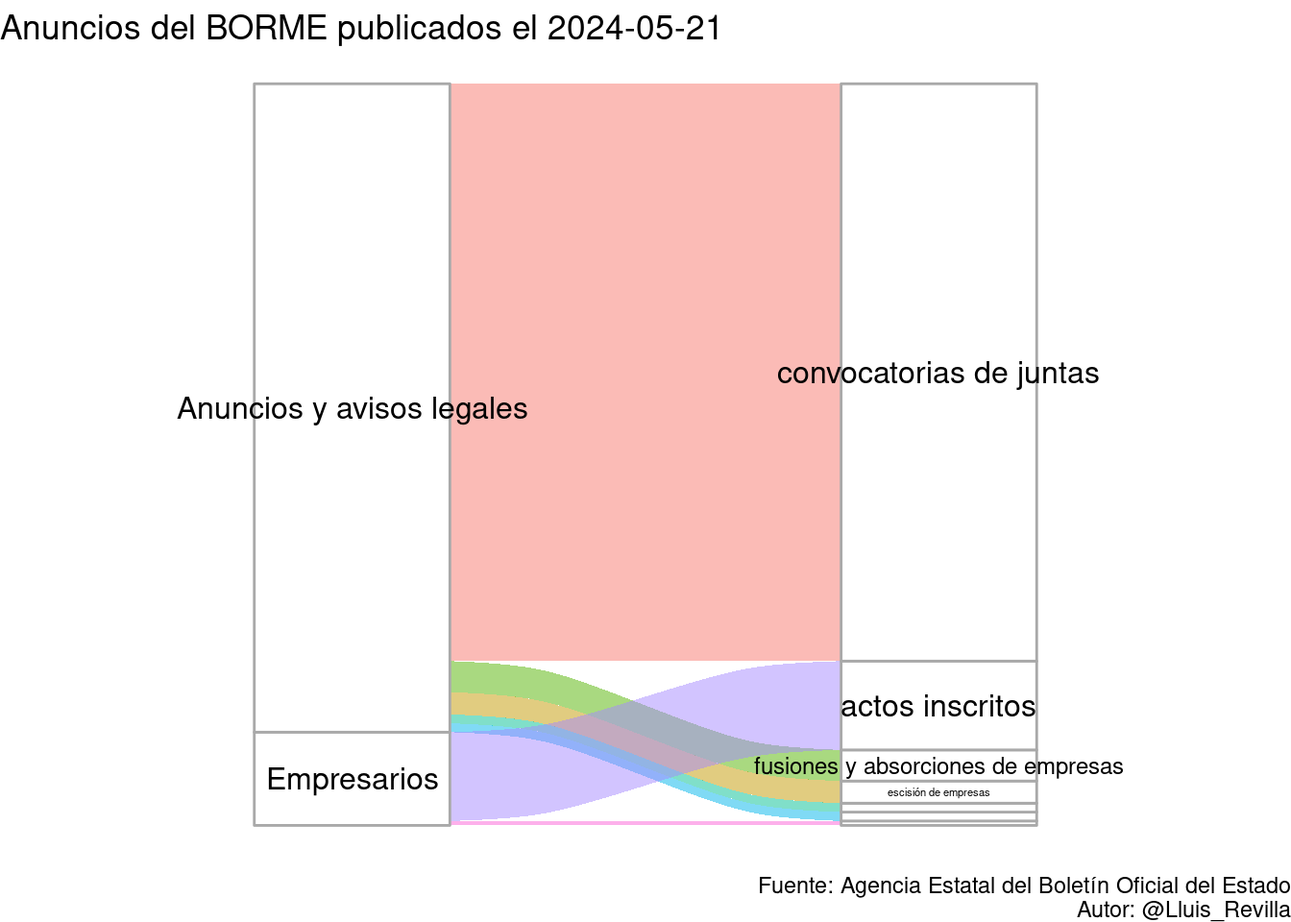
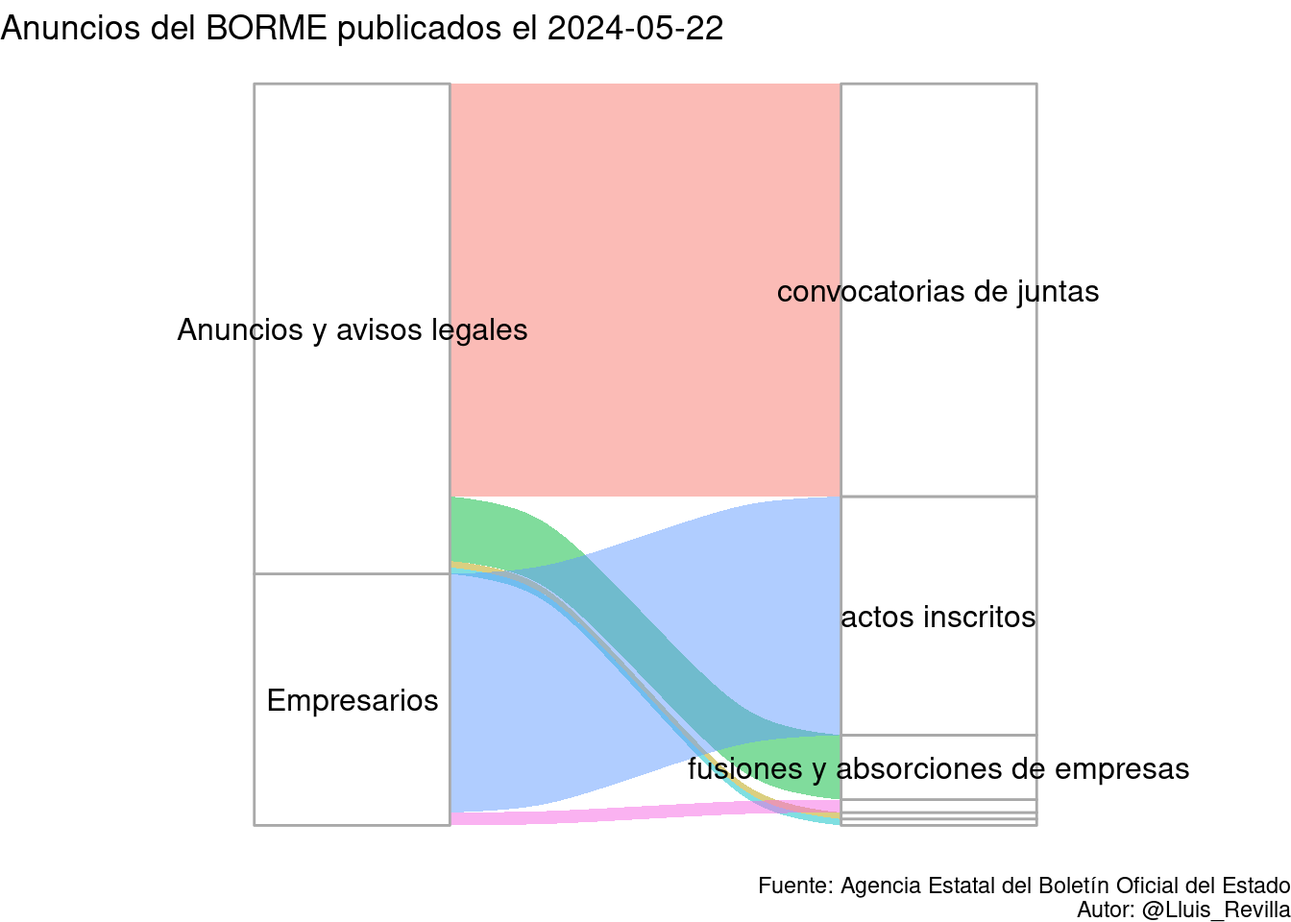
Update BORME

diff --git a/docs/last_BORME.html b/docs/last_BORME.html
@@ -379,14 +379,14 @@ $(document).ready(function () {
 
 <div id="resumen-gráfico" class="section level1">
 <h1>Resumen gráfico</h1>
-<p>Esta página web contiene el último sumario del BORME publicado el 2024-05-21 con 167 publicaciones.</p>
+<p>Esta página web contiene el último sumario del BORME publicado el 2024-05-22 con 115 publicaciones.</p>
 <p><img src="last_BORME_files/figure-html/graphics-1.png" width="672" /></p>
 </div>
 <div id="tabla-de-publicaciones" class="section level1">
 <h1>Tabla de publicaciones</h1>
 <p>Aquí está la tabla completa con enlaces a las publicaciones:</p>
-<div class="datatables html-widget html-fill-item-overflow-hidden html-fill-item" id="htmlwidget-a701b0b0e2aa3065d096" style="width:100%;height:auto;"></div>
-<script type="application/json" data-for="htmlwidget-a701b0b0e2aa3065d096">{"x":{"filter":"top","vertical":false,"filterHTML":"<tr>\n  <td><\/td>\n  <td data-type=\"character\" style=\"vertical-align: top;\">\n    <div class=\"form-group has-feedback\" style=\"margin-bottom: auto;\">\n      <input type=\"search\" placeholder=\"All\" class=\"form-control\" style=\"width: 100%;\"/>\n      <span class=\"glyphicon glyphicon-remove-circle form-control-feedback\"><\/span>\n    <\/div>\n  <\/td>\n  <td data-type=\"character\" style=\"vertical-align: top;\">\n    <div class=\"form-group has-feedback\" style=\"margin-bottom: auto;\">\n      <input type=\"search\" placeholder=\"All\" class=\"form-control\" style=\"width: 100%;\"/>\n      <span class=\"glyphicon glyphicon-remove-circle form-control-feedback\"><\/span>\n    <\/div>\n  <\/td>\n  <td data-type=\"character\" style=\"vertical-align: top;\">\n    <div class=\"form-group has-feedback\" style=\"margin-bottom: auto;\">\n      <input type=\"search\" placeholder=\"All\" class=\"form-control\" style=\"width: 100%;\" disabled=\"\"/>\n      <span class=\"glyphicon glyphicon-remove-circle form-control-feedback\"><\/span>\n    <\/div>\n  <\/td>\n  <td data-type=\"character\" style=\"vertical-align: top;\">\n    <div class=\"form-group has-feedback\" style=\"margin-bottom: auto;\">\n      <input type=\"search\" placeholder=\"All\" class=\"form-control\" style=\"width: 100%;\"/>\n      <span class=\"glyphicon glyphicon-remove-circle form-control-feedback\"><\/span>\n    <\/div>\n  <\/td>\n<\/tr>","data":[["1","2","3","4","5","6","7","8","9","10","11","12","13","14","15","16","17","18","19","20","21","22","23","24","25","26","27","28","29","30","31","32","33","34","35","36","37","38","39","40","41","42","43","44","45","46","47","48","49","50","51","52","53","54","55","56","57","58","59","60","61","62","63","64","65","66","67","68","69","70","71","72","73","74","75","76","77","78","79","80","81","82","83","84","85","86","87","88","89","90","91","92","93","94","95","96","97","98","99","100","101","102","103","104","105","106","107","108","109","110","111","112","113","114","115","116","117","118","119","120","121","122","123","124","125","126","127","128","129","130","131","132","133","134","135","136","137","138","139","140","141","142","143","144","145","146","147","148","149","150","151","152","153","154","155","156","157","158","159","160","161","162","163","164","165","166","167"],["SECCIÓN PRIMERA. Empresarios","SECCIÓN PRIMERA. Empresarios","SECCIÓN PRIMERA. Empresarios","SECCIÓN PRIMERA. Empresarios","SECCIÓN PRIMERA. Empresarios","SECCIÓN PRIMERA. Empresarios","SECCIÓN PRIMERA. Empresarios","SECCIÓN PRIMERA. Empresarios","SECCIÓN PRIMERA. Empresarios","SECCIÓN PRIMERA. Empresarios","SECCIÓN PRIMERA. Empresarios","SECCIÓN PRIMERA. Empresarios","SECCIÓN PRIMERA. Empresarios","SECCIÓN PRIMERA. Empresarios","SECCIÓN PRIMERA. Empresarios","SECCIÓN PRIMERA. Empresarios","SECCIÓN PRIMERA. Empresarios","SECCIÓN PRIMERA. Empresarios","SECCIÓN PRIMERA. Empresarios","SECCIÓN PRIMERA. Empresarios","SECCIÓN PRIMERA. Empresarios","SECCIÓN SEGUNDA. Anuncios y avisos legales","SECCIÓN SEGUNDA. Anuncios y avisos legales","SECCIÓN SEGUNDA. Anuncios y avisos legales","SECCIÓN SEGUNDA. Anuncios y avisos legales","SECCIÓN SEGUNDA. Anuncios y avisos legales","SECCIÓN SEGUNDA. Anuncios y avisos legales","SECCIÓN SEGUNDA. Anuncios y avisos legales","SECCIÓN SEGUNDA. Anuncios y avisos legales","SECCIÓN SEGUNDA. Anuncios y avisos legales","SECCIÓN SEGUNDA. Anuncios y avisos legales","SECCIÓN SEGUNDA. Anuncios y avisos legales","SECCIÓN SEGUNDA. Anuncios y avisos legales","SECCIÓN SEGUNDA. Anuncios y avisos legales","SECCIÓN SEGUNDA. Anuncios y avisos legales","SECCIÓN SEGUNDA. Anuncios y avisos legales","SECCIÓN SEGUNDA. Anuncios y avisos legales","SECCIÓN SEGUNDA. Anuncios y avisos legales","SECCIÓN SEGUNDA. Anuncios y avisos legales","SECCIÓN SEGUNDA. Anuncios y avisos legales","SECCIÓN SEGUNDA. Anuncios y avisos legales","SECCIÓN SEGUNDA. Anuncios y avisos legales","SECCIÓN SEGUNDA. Anuncios y avisos legales","SECCIÓN SEGUNDA. Anuncios y avisos legales","SECCIÓN SEGUNDA. Anuncios y avisos legales","SECCIÓN SEGUNDA. Anuncios y avisos legales","SECCIÓN SEGUNDA. Anuncios y avisos legales","SECCIÓN SEGUNDA. Anuncios y avisos legales","SECCIÓN SEGUNDA. Anuncios y avisos legales","SECCIÓN SEGUNDA. Anuncios y avisos legales","SECCIÓN SEGUNDA. Anuncios y avisos legales","SECCIÓN SEGUNDA. Anuncios y avisos legales","SECCIÓN SEGUNDA. Anuncios y avisos legales","SECCIÓN SEGUNDA. Anuncios y avisos legales","SECCIÓN SEGUNDA. Anuncios y avisos legales","SECCIÓN SEGUNDA. Anuncios y avisos legales","SECCIÓN SEGUNDA. Anuncios y avisos legales","SECCIÓN SEGUNDA. Anuncios y avisos legales","SECCIÓN SEGUNDA. Anuncios y avisos legales","SECCIÓN SEGUNDA. Anuncios y avisos legales","SECCIÓN SEGUNDA. Anuncios y avisos legales","SECCIÓN SEGUNDA. Anuncios y avisos legales","SECCIÓN SEGUNDA. Anuncios y avisos legales","SECCIÓN SEGUNDA. Anuncios y avisos legales","SECCIÓN SEGUNDA. Anuncios y avisos legales","SECCIÓN SEGUNDA. Anuncios y avisos legales","SECCIÓN SEGUNDA. Anuncios y avisos legales","SECCIÓN SEGUNDA. Anuncios y avisos legales","SECCIÓN SEGUNDA. Anuncios y avisos legales","SECCIÓN SEGUNDA. Anuncios y avisos legales","SECCIÓN SEGUNDA. Anuncios y avisos legales","SECCIÓN SEGUNDA. Anuncios y avisos legales","SECCIÓN SEGUNDA. Anuncios y avisos legales","SECCIÓN SEGUNDA. Anuncios y avisos legales","SECCIÓN SEGUNDA. Anuncios y avisos legales","SECCIÓN SEGUNDA. Anuncios y avisos legales","SECCIÓN SEGUNDA. Anuncios y avisos legales","SECCIÓN SEGUNDA. Anuncios y avisos legales","SECCIÓN SEGUNDA. Anuncios y avisos legales","SECCIÓN SEGUNDA. Anuncios y avisos legales","SECCIÓN SEGUNDA. Anuncios y avisos legales","SECCIÓN SEGUNDA. Anuncios y avisos legales","SECCIÓN SEGUNDA. Anuncios y avisos legales","SECCIÓN SEGUNDA. Anuncios y avisos legales","SECCIÓN SEGUNDA. Anuncios y avisos legales","SECCIÓN SEGUNDA. Anuncios y avisos legales","SECCIÓN SEGUNDA. Anuncios y avisos legales","SECCIÓN SEGUNDA. Anuncios y avisos legales","SECCIÓN SEGUNDA. Anuncios y avisos legales","SECCIÓN SEGUNDA. Anuncios y avisos legales","SECCIÓN SEGUNDA. Anuncios y avisos legales","SECCIÓN SEGUNDA. Anuncios y avisos legales","SECCIÓN SEGUNDA. Anuncios y avisos legales","SECCIÓN SEGUNDA. Anuncios y avisos legales","SECCIÓN SEGUNDA. Anuncios y avisos legales","SECCIÓN SEGUNDA. Anuncios y avisos legales","SECCIÓN SEGUNDA. Anuncios y avisos legales","SECCIÓN SEGUNDA. Anuncios y avisos legales","SECCIÓN SEGUNDA. Anuncios y avisos legales","SECCIÓN SEGUNDA. Anuncios y avisos legales","SECCIÓN SEGUNDA. Anuncios y avisos legales","SECCIÓN SEGUNDA. Anuncios y avisos legales","SECCIÓN SEGUNDA. Anuncios y avisos legales","SECCIÓN SEGUNDA. Anuncios y avisos legales","SECCIÓN SEGUNDA. Anuncios y avisos legales","SECCIÓN SEGUNDA. Anuncios y avisos legales","SECCIÓN SEGUNDA. Anuncios y avisos legales","SECCIÓN SEGUNDA. Anuncios y avisos legales","SECCIÓN SEGUNDA. Anuncios y avisos legales","SECCIÓN SEGUNDA. Anuncios y avisos legales","SECCIÓN SEGUNDA. Anuncios y avisos legales","SECCIÓN SEGUNDA. Anuncios y avisos legales","SECCIÓN SEGUNDA. Anuncios y avisos legales","SECCIÓN SEGUNDA. Anuncios y avisos legales","SECCIÓN SEGUNDA. Anuncios y avisos legales","SECCIÓN SEGUNDA. Anuncios y avisos legales","SECCIÓN SEGUNDA. Anuncios y avisos legales","SECCIÓN SEGUNDA. Anuncios y avisos legales","SECCIÓN SEGUNDA. Anuncios y avisos legales","SECCIÓN SEGUNDA. Anuncios y avisos legales","SECCIÓN SEGUNDA. Anuncios y avisos legales","SECCIÓN SEGUNDA. Anuncios y avisos legales","SECCIÓN SEGUNDA. Anuncios y avisos legales","SECCIÓN SEGUNDA. Anuncios y avisos legales","SECCIÓN SEGUNDA. Anuncios y avisos legales","SECCIÓN SEGUNDA. Anuncios y avisos legales","SECCIÓN SEGUNDA. Anuncios y avisos legales","SECCIÓN SEGUNDA. Anuncios y avisos legales","SECCIÓN SEGUNDA. Anuncios y avisos legales","SECCIÓN SEGUNDA. Anuncios y avisos legales","SECCIÓN SEGUNDA. Anuncios y avisos legales","SECCIÓN SEGUNDA. Anuncios y avisos legales","SECCIÓN SEGUNDA. Anuncios y avisos legales","SECCIÓN SEGUNDA. Anuncios y avisos legales","SECCIÓN SEGUNDA. Anuncios y avisos legales","SECCIÓN SEGUNDA. Anuncios y avisos legales","SECCIÓN SEGUNDA. Anuncios y avisos legales","SECCIÓN SEGUNDA. Anuncios y avisos legales","SECCIÓN SEGUNDA. Anuncios y avisos legales","SECCIÓN SEGUNDA. Anuncios y avisos legales","SECCIÓN SEGUNDA. Anuncios y avisos legales","SECCIÓN SEGUNDA. Anuncios y avisos legales","SECCIÓN SEGUNDA. Anuncios y avisos legales","SECCIÓN SEGUNDA. Anuncios y avisos legales","SECCIÓN SEGUNDA. Anuncios y avisos legales","SECCIÓN SEGUNDA. Anuncios y avisos legales","SECCIÓN SEGUNDA. Anuncios y avisos legales","SECCIÓN SEGUNDA. Anuncios y avisos legales","SECCIÓN SEGUNDA. Anuncios y avisos legales","SECCIÓN SEGUNDA. Anuncios y avisos legales","SECCIÓN SEGUNDA. Anuncios y avisos legales","SECCIÓN SEGUNDA. Anuncios y avisos legales","SECCIÓN SEGUNDA. Anuncios y avisos legales","SECCIÓN SEGUNDA. Anuncios y avisos legales","SECCIÓN SEGUNDA. Anuncios y avisos legales","SECCIÓN SEGUNDA. Anuncios y avisos legales","SECCIÓN SEGUNDA. Anuncios y avisos legales","SECCIÓN SEGUNDA. Anuncios y avisos legales","SECCIÓN SEGUNDA. Anuncios y avisos legales","SECCIÓN SEGUNDA. Anuncios y avisos legales","SECCIÓN SEGUNDA. Anuncios y avisos legales","SECCIÓN SEGUNDA. Anuncios y avisos legales","SECCIÓN SEGUNDA. Anuncios y avisos legales","SECCIÓN SEGUNDA. Anuncios y avisos legales","SECCIÓN SEGUNDA. Anuncios y avisos legales","SECCIÓN SEGUNDA. Anuncios y avisos legales","SECCIÓN SEGUNDA. Anuncios y avisos legales"],["Actos inscritos","Actos inscritos","Actos inscritos","Actos inscritos","Actos inscritos","Actos inscritos","Actos inscritos","Actos inscritos","Actos inscritos","Actos inscritos","Actos inscritos","Actos inscritos","Actos inscritos","Actos inscritos","Actos inscritos","Actos inscritos","Actos inscritos","Actos inscritos","Actos inscritos","Actos inscritos","Otros actos publicados en el Registro Mercantil","CONVOCATORIAS DE JUNTAS","CONVOCATORIAS DE JUNTAS","CONVOCATORIAS DE JUNTAS","CONVOCATORIAS DE JUNTAS","CONVOCATORIAS DE JUNTAS","CONVOCATORIAS DE JUNTAS","CONVOCATORIAS DE JUNTAS","CONVOCATORIAS DE JUNTAS","CONVOCATORIAS DE JUNTAS","CONVOCATORIAS DE JUNTAS","CONVOCATORIAS DE JUNTAS","CONVOCATORIAS DE JUNTAS","CONVOCATORIAS DE JUNTAS","CONVOCATORIAS DE JUNTAS","CONVOCATORIAS DE JUNTAS","CONVOCATORIAS DE JUNTAS","CONVOCATORIAS DE JUNTAS","CONVOCATORIAS DE JUNTAS","CONVOCATORIAS DE JUNTAS","CONVOCATORIAS DE JUNTAS","CONVOCATORIAS DE JUNTAS","CONVOCATORIAS DE JUNTAS","CONVOCATORIAS DE JUNTAS","CONVOCATORIAS DE JUNTAS","CONVOCATORIAS DE JUNTAS","CONVOCATORIAS DE JUNTAS","CONVOCATORIAS DE JUNTAS","CONVOCATORIAS DE JUNTAS","CONVOCATORIAS DE JUNTAS","CONVOCATORIAS DE JUNTAS","CONVOCATORIAS DE JUNTAS","CONVOCATORIAS DE JUNTAS","CONVOCATORIAS DE JUNTAS","CONVOCATORIAS DE JUNTAS","CONVOCATORIAS DE JUNTAS","CONVOCATORIAS DE JUNTAS","CONVOCATORIAS DE JUNTAS","CONVOCATORIAS DE JUNTAS","CONVOCATORIAS DE JUNTAS","CONVOCATORIAS DE JUNTAS","CONVOCATORIAS DE JUNTAS","CONVOCATORIAS DE JUNTAS","CONVOCATORIAS DE JUNTAS","CONVOCATORIAS DE JUNTAS","CONVOCATORIAS DE JUNTAS","CONVOCATORIAS DE JUNTAS","CONVOCATORIAS DE JUNTAS","CONVOCATORIAS DE JUNTAS","CONVOCATORIAS DE JUNTAS","CONVOCATORIAS DE JUNTAS","CONVOCATORIAS DE JUNTAS","CONVOCATORIAS DE JUNTAS","CONVOCATORIAS DE JUNTAS","CONVOCATORIAS DE JUNTAS","CONVOCATORIAS DE JUNTAS","CONVOCATORIAS DE JUNTAS","CONVOCATORIAS DE JUNTAS","CONVOCATORIAS DE JUNTAS","CONVOCATORIAS DE JUNTAS","CONVOCATORIAS DE JUNTAS","CONVOCATORIAS DE JUNTAS","CONVOCATORIAS DE JUNTAS","CONVOCATORIAS DE JUNTAS","CONVOCATORIAS DE JUNTAS","CONVOCATORIAS DE JUNTAS","CONVOCATORIAS DE JUNTAS","CONVOCATORIAS DE JUNTAS","CONVOCATORIAS DE JUNTAS","CONVOCATORIAS DE JUNTAS","CONVOCATORIAS DE JUNTAS","CONVOCATORIAS DE JUNTAS","CONVOCATORIAS DE JUNTAS","CONVOCATORIAS DE JUNTAS","CONVOCATORIAS DE JUNTAS","CONVOCATORIAS DE JUNTAS","CONVOCATORIAS DE JUNTAS","CONVOCATORIAS DE JUNTAS","CONVOCATORIAS DE JUNTAS","CONVOCATORIAS DE JUNTAS","CONVOCATORIAS DE JUNTAS","CONVOCATORIAS DE JUNTAS","CONVOCATORIAS DE JUNTAS","CONVOCATORIAS DE JUNTAS","CONVOCATORIAS DE JUNTAS","CONVOCATORIAS DE JUNTAS","CONVOCATORIAS DE JUNTAS","CONVOCATORIAS DE JUNTAS","CONVOCATORIAS DE JUNTAS","CONVOCATORIAS DE JUNTAS","CONVOCATORIAS DE JUNTAS","CONVOCATORIAS DE JUNTAS","CONVOCATORIAS DE JUNTAS","CONVOCATORIAS DE JUNTAS","CONVOCATORIAS DE JUNTAS","CONVOCATORIAS DE JUNTAS","CONVOCATORIAS DE JUNTAS","CONVOCATORIAS DE JUNTAS","CONVOCATORIAS DE JUNTAS","CONVOCATORIAS DE JUNTAS","CONVOCATORIAS DE JUNTAS","CONVOCATORIAS DE JUNTAS","CONVOCATORIAS DE JUNTAS","CONVOCATORIAS DE JUNTAS","CONVOCATORIAS DE JUNTAS","CONVOCATORIAS DE JUNTAS","CONVOCATORIAS DE JUNTAS","CONVOCATORIAS DE JUNTAS","CONVOCATORIAS DE JUNTAS","CONVOCATORIAS DE JUNTAS","CONVOCATORIAS DE JUNTAS","CONVOCATORIAS DE JUNTAS","CONVOCATORIAS DE JUNTAS","CONVOCATORIAS DE JUNTAS","CONVOCATORIAS DE JUNTAS","CONVOCATORIAS DE JUNTAS","CONVOCATORIAS DE JUNTAS","CONVOCATORIAS DE JUNTAS","CONVOCATORIAS DE JUNTAS","CONVOCATORIAS DE JUNTAS","CONVOCATORIAS DE JUNTAS","CONVOCATORIAS DE JUNTAS","CONVOCATORIAS DE JUNTAS","CONVOCATORIAS DE JUNTAS","CONVOCATORIAS DE JUNTAS","CONVOCATORIAS DE JUNTAS","CONVOCATORIAS DE JUNTAS","CONVOCATORIAS DE JUNTAS","CONVOCATORIAS DE JUNTAS","CONVOCATORIAS DE JUNTAS","CONVOCATORIAS DE JUNTAS","FUSIONES Y ABSORCIONES DE EMPRESAS","FUSIONES Y ABSORCIONES DE EMPRESAS","FUSIONES Y ABSORCIONES DE EMPRESAS","FUSIONES Y ABSORCIONES DE EMPRESAS","FUSIONES Y ABSORCIONES DE EMPRESAS","FUSIONES Y ABSORCIONES DE EMPRESAS","FUSIONES Y ABSORCIONES DE EMPRESAS","ESCISIÓN DE EMPRESAS","ESCISIÓN DE EMPRESAS","ESCISIÓN DE EMPRESAS","ESCISIÓN DE EMPRESAS","ESCISIÓN DE EMPRESAS","TRANSFORMACIÓN DE EMPRESAS","TRANSFORMACIÓN DE EMPRESAS","REDUCCIÓN DE CAPITAL","REDUCCIÓN DE CAPITAL"],[null,null,null,null,null,null,null,null,null,null,null,null,null,null,null,null,null,null,null,null,null,null,null,null,null,null,null,null,null,null,null,null,null,null,null,null,null,null,null,null,null,null,null,null,null,null,null,null,null,null,null,null,null,null,null,null,null,null,null,null,null,null,null,null,null,null,null,null,null,null,null,null,null,null,null,null,null,null,null,null,null,null,null,null,null,null,null,null,null,null,null,null,null,null,null,null,null,null,null,null,null,null,null,null,null,null,null,null,null,null,null,null,null,null,null,null,null,null,null,null,null,null,null,null,null,null,null,null,null,null,null,null,null,null,null,null,null,null,null,null,null,null,null,null,null,null,null,null,null,null,null,null,null,null,null,null,null,null,null,null,null,null,null,null,null,null,null],["BORME-A-2024-96-01","BORME-A-2024-96-02","BORME-A-2024-96-03","BORME-A-2024-96-04","BORME-A-2024-96-08","BORME-A-2024-96-11","BORME-A-2024-96-12","BORME-A-2024-96-14","BORME-A-2024-96-15","BORME-A-2024-96-17","BORME-A-2024-96-18","BORME-A-2024-96-25","BORME-A-2024-96-28","BORME-A-2024-96-30","BORME-A-2024-96-31","BORME-A-2024-96-32","BORME-A-2024-96-37","BORME-A-2024-96-43","BORME-A-2024-96-46","BORME-A-2024-96-99","BORME-B-2024-96-06","BORME-C-2024-2575","BORME-C-2024-2576","BORME-C-2024-2577","BORME-C-2024-2578","BORME-C-2024-2579","BORME-C-2024-2580","BORME-C-2024-2581","BORME-C-2024-2582","BORME-C-2024-2583","BORME-C-2024-2584","BORME-C-2024-2585","BORME-C-2024-2586","BORME-C-2024-2587","BORME-C-2024-2588","BORME-C-2024-2589","BORME-C-2024-2590","BORME-C-2024-2591","BORME-C-2024-2592","BORME-C-2024-2593","BORME-C-2024-2594","BORME-C-2024-2595","BORME-C-2024-2596","BORME-C-2024-2597","BORME-C-2024-2598","BORME-C-2024-2599","BORME-C-2024-2600","BORME-C-2024-2601","BORME-C-2024-2602","BORME-C-2024-2603","BORME-C-2024-2604","BORME-C-2024-2605","BORME-C-2024-2606","BORME-C-2024-2607","BORME-C-2024-2608","BORME-C-2024-2609","BORME-C-2024-2610","BORME-C-2024-2611","BORME-C-2024-2612","BORME-C-2024-2613","BORME-C-2024-2614","BORME-C-2024-2615","BORME-C-2024-2616","BORME-C-2024-2617","BORME-C-2024-2618","BORME-C-2024-2619","BORME-C-2024-2620","BORME-C-2024-2621","BORME-C-2024-2622","BORME-C-2024-2623","BORME-C-2024-2624","BORME-C-2024-2625","BORME-C-2024-2626","BORME-C-2024-2627","BORME-C-2024-2628","BORME-C-2024-2629","BORME-C-2024-2630","BORME-C-2024-2631","BORME-C-2024-2632","BORME-C-2024-2633","BORME-C-2024-2634","BORME-C-2024-2635","BORME-C-2024-2636","BORME-C-2024-2637","BORME-C-2024-2638","BORME-C-2024-2639","BORME-C-2024-2640","BORME-C-2024-2641","BORME-C-2024-2642","BORME-C-2024-2643","BORME-C-2024-2644","BORME-C-2024-2645","BORME-C-2024-2646","BORME-C-2024-2647","BORME-C-2024-2648","BORME-C-2024-2649","BORME-C-2024-2650","BORME-C-2024-2651","BORME-C-2024-2652","BORME-C-2024-2653","BORME-C-2024-2654","BORME-C-2024-2655","BORME-C-2024-2656","BORME-C-2024-2657","BORME-C-2024-2658","BORME-C-2024-2659","BORME-C-2024-2660","BORME-C-2024-2661","BORME-C-2024-2662","BORME-C-2024-2663","BORME-C-2024-2664","BORME-C-2024-2665","BORME-C-2024-2666","BORME-C-2024-2667","BORME-C-2024-2668","BORME-C-2024-2669","BORME-C-2024-2670","BORME-C-2024-2671","BORME-C-2024-2672","BORME-C-2024-2673","BORME-C-2024-2674","BORME-C-2024-2675","BORME-C-2024-2676","BORME-C-2024-2677","BORME-C-2024-2678","BORME-C-2024-2679","BORME-C-2024-2680","BORME-C-2024-2681","BORME-C-2024-2682","BORME-C-2024-2683","BORME-C-2024-2684","BORME-C-2024-2685","BORME-C-2024-2686","BORME-C-2024-2687","BORME-C-2024-2688","BORME-C-2024-2689","BORME-C-2024-2690","BORME-C-2024-2691","BORME-C-2024-2692","BORME-C-2024-2693","BORME-C-2024-2694","BORME-C-2024-2695","BORME-C-2024-2696","BORME-C-2024-2697","BORME-C-2024-2698","BORME-C-2024-2699","BORME-C-2024-2700","BORME-C-2024-2701","BORME-C-2024-2702","BORME-C-2024-2703","BORME-C-2024-2704","BORME-C-2024-2705","BORME-C-2024-2706","BORME-C-2024-2707","BORME-C-2024-2708","BORME-C-2024-2709","BORME-C-2024-2710","BORME-C-2024-2711","BORME-C-2024-2712","BORME-C-2024-2713","BORME-C-2024-2714","BORME-C-2024-2715","BORME-C-2024-2716","BORME-C-2024-2717","BORME-C-2024-2718","BORME-C-2024-2719","BORME-C-2024-2720"]],"container":"<table class=\"display\">\n  <thead>\n    <tr>\n      <th> <\/th>\n      <th>Sección<\/th>\n      <th>Emisor<\/th>\n      <th>Texto<\/th>\n      <th>Link<\/th>\n    <\/tr>\n  <\/thead>\n<\/table>","options":{"pageLength":10,"autoWidth":true,"columnDefs":[{"orderable":false,"targets":0},{"name":" ","targets":0},{"name":"Sección","targets":1},{"name":"Emisor","targets":2},{"name":"Texto","targets":3},{"name":"Link","targets":4}],"order":[],"orderClasses":false,"orderCellsTop":true}},"evals":[],"jsHooks":[]}</script>
+<div class="datatables html-widget html-fill-item-overflow-hidden html-fill-item" id="htmlwidget-4ed172a83ad37c96f10c" style="width:100%;height:auto;"></div>
+<script type="application/json" data-for="htmlwidget-4ed172a83ad37c96f10c">{"x":{"filter":"top","vertical":false,"filterHTML":"<tr>\n  <td><\/td>\n  <td data-type=\"character\" style=\"vertical-align: top;\">\n    <div class=\"form-group has-feedback\" style=\"margin-bottom: auto;\">\n      <input type=\"search\" placeholder=\"All\" class=\"form-control\" style=\"width: 100%;\"/>\n      <span class=\"glyphicon glyphicon-remove-circle form-control-feedback\"><\/span>\n    <\/div>\n  <\/td>\n  <td data-type=\"character\" style=\"vertical-align: top;\">\n    <div class=\"form-group has-feedback\" style=\"margin-bottom: auto;\">\n      <input type=\"search\" placeholder=\"All\" class=\"form-control\" style=\"width: 100%;\"/>\n      <span class=\"glyphicon glyphicon-remove-circle form-control-feedback\"><\/span>\n    <\/div>\n  <\/td>\n  <td data-type=\"character\" style=\"vertical-align: top;\">\n    <div class=\"form-group has-feedback\" style=\"margin-bottom: auto;\">\n      <input type=\"search\" placeholder=\"All\" class=\"form-control\" style=\"width: 100%;\" disabled=\"\"/>\n      <span class=\"glyphicon glyphicon-remove-circle form-control-feedback\"><\/span>\n    <\/div>\n  <\/td>\n  <td data-type=\"character\" style=\"vertical-align: top;\">\n    <div class=\"form-group has-feedback\" style=\"margin-bottom: auto;\">\n      <input type=\"search\" placeholder=\"All\" class=\"form-control\" style=\"width: 100%;\"/>\n      <span class=\"glyphicon glyphicon-remove-circle form-control-feedback\"><\/span>\n    <\/div>\n  <\/td>\n<\/tr>","data":[["1","2","3","4","5","6","7","8","9","10","11","12","13","14","15","16","17","18","19","20","21","22","23","24","25","26","27","28","29","30","31","32","33","34","35","36","37","38","39","40","41","42","43","44","45","46","47","48","49","50","51","52","53","54","55","56","57","58","59","60","61","62","63","64","65","66","67","68","69","70","71","72","73","74","75","76","77","78","79","80","81","82","83","84","85","86","87","88","89","90","91","92","93","94","95","96","97","98","99","100","101","102","103","104","105","106","107","108","109","110","111","112","113","114","115"],["SECCIÓN PRIMERA. Empresarios","SECCIÓN PRIMERA. Empresarios","SECCIÓN PRIMERA. Empresarios","SECCIÓN PRIMERA. Empresarios","SECCIÓN PRIMERA. Empresarios","SECCIÓN PRIMERA. Empresarios","SECCIÓN PRIMERA. Empresarios","SECCIÓN PRIMERA. Empresarios","SECCIÓN PRIMERA. Empresarios","SECCIÓN PRIMERA. Empresarios","SECCIÓN PRIMERA. Empresarios","SECCIÓN PRIMERA. Empresarios","SECCIÓN PRIMERA. Empresarios","SECCIÓN PRIMERA. Empresarios","SECCIÓN PRIMERA. Empresarios","SECCIÓN PRIMERA. Empresarios","SECCIÓN PRIMERA. Empresarios","SECCIÓN PRIMERA. Empresarios","SECCIÓN PRIMERA. Empresarios","SECCIÓN PRIMERA. Empresarios","SECCIÓN PRIMERA. Empresarios","SECCIÓN PRIMERA. Empresarios","SECCIÓN PRIMERA. Empresarios","SECCIÓN PRIMERA. Empresarios","SECCIÓN PRIMERA. Empresarios","SECCIÓN PRIMERA. Empresarios","SECCIÓN PRIMERA. Empresarios","SECCIÓN PRIMERA. Empresarios","SECCIÓN PRIMERA. Empresarios","SECCIÓN PRIMERA. Empresarios","SECCIÓN PRIMERA. Empresarios","SECCIÓN PRIMERA. Empresarios","SECCIÓN PRIMERA. Empresarios","SECCIÓN PRIMERA. Empresarios","SECCIÓN PRIMERA. Empresarios","SECCIÓN PRIMERA. Empresarios","SECCIÓN PRIMERA. Empresarios","SECCIÓN PRIMERA. Empresarios","SECCIÓN PRIMERA. Empresarios","SECCIÓN SEGUNDA. Anuncios y avisos legales","SECCIÓN SEGUNDA. Anuncios y avisos legales","SECCIÓN SEGUNDA. Anuncios y avisos legales","SECCIÓN SEGUNDA. Anuncios y avisos legales","SECCIÓN SEGUNDA. Anuncios y avisos legales","SECCIÓN SEGUNDA. Anuncios y avisos legales","SECCIÓN SEGUNDA. Anuncios y avisos legales","SECCIÓN SEGUNDA. Anuncios y avisos legales","SECCIÓN SEGUNDA. Anuncios y avisos legales","SECCIÓN SEGUNDA. Anuncios y avisos legales","SECCIÓN SEGUNDA. Anuncios y avisos legales","SECCIÓN SEGUNDA. Anuncios y avisos legales","SECCIÓN SEGUNDA. Anuncios y avisos legales","SECCIÓN SEGUNDA. Anuncios y avisos legales","SECCIÓN SEGUNDA. Anuncios y avisos legales","SECCIÓN SEGUNDA. Anuncios y avisos legales","SECCIÓN SEGUNDA. Anuncios y avisos legales","SECCIÓN SEGUNDA. Anuncios y avisos legales","SECCIÓN SEGUNDA. Anuncios y avisos legales","SECCIÓN SEGUNDA. Anuncios y avisos legales","SECCIÓN SEGUNDA. Anuncios y avisos legales","SECCIÓN SEGUNDA. Anuncios y avisos legales","SECCIÓN SEGUNDA. Anuncios y avisos legales","SECCIÓN SEGUNDA. Anuncios y avisos legales","SECCIÓN SEGUNDA. Anuncios y avisos legales","SECCIÓN SEGUNDA. Anuncios y avisos legales","SECCIÓN SEGUNDA. Anuncios y avisos legales","SECCIÓN SEGUNDA. Anuncios y avisos legales","SECCIÓN SEGUNDA. Anuncios y avisos legales","SECCIÓN SEGUNDA. Anuncios y avisos legales","SECCIÓN SEGUNDA. Anuncios y avisos legales","SECCIÓN SEGUNDA. Anuncios y avisos legales","SECCIÓN SEGUNDA. Anuncios y avisos legales","SECCIÓN SEGUNDA. Anuncios y avisos legales","SECCIÓN SEGUNDA. Anuncios y avisos legales","SECCIÓN SEGUNDA. Anuncios y avisos legales","SECCIÓN SEGUNDA. Anuncios y avisos legales","SECCIÓN SEGUNDA. Anuncios y avisos legales","SECCIÓN SEGUNDA. Anuncios y avisos legales","SECCIÓN SEGUNDA. Anuncios y avisos legales","SECCIÓN SEGUNDA. Anuncios y avisos legales","SECCIÓN SEGUNDA. Anuncios y avisos legales","SECCIÓN SEGUNDA. Anuncios y avisos legales","SECCIÓN SEGUNDA. Anuncios y avisos legales","SECCIÓN SEGUNDA. Anuncios y avisos legales","SECCIÓN SEGUNDA. Anuncios y avisos legales","SECCIÓN SEGUNDA. Anuncios y avisos legales","SECCIÓN SEGUNDA. Anuncios y avisos legales","SECCIÓN SEGUNDA. Anuncios y avisos legales","SECCIÓN SEGUNDA. Anuncios y avisos legales","SECCIÓN SEGUNDA. Anuncios y avisos legales","SECCIÓN SEGUNDA. Anuncios y avisos legales","SECCIÓN SEGUNDA. Anuncios y avisos legales","SECCIÓN SEGUNDA. Anuncios y avisos legales","SECCIÓN SEGUNDA. Anuncios y avisos legales","SECCIÓN SEGUNDA. Anuncios y avisos legales","SECCIÓN SEGUNDA. Anuncios y avisos legales","SECCIÓN SEGUNDA. Anuncios y avisos legales","SECCIÓN SEGUNDA. Anuncios y avisos legales","SECCIÓN SEGUNDA. Anuncios y avisos legales","SECCIÓN SEGUNDA. Anuncios y avisos legales","SECCIÓN SEGUNDA. Anuncios y avisos legales","SECCIÓN SEGUNDA. Anuncios y avisos legales","SECCIÓN SEGUNDA. Anuncios y avisos legales","SECCIÓN SEGUNDA. Anuncios y avisos legales","SECCIÓN SEGUNDA. Anuncios y avisos legales","SECCIÓN SEGUNDA. Anuncios y avisos legales","SECCIÓN SEGUNDA. Anuncios y avisos legales","SECCIÓN SEGUNDA. Anuncios y avisos legales","SECCIÓN SEGUNDA. Anuncios y avisos legales","SECCIÓN SEGUNDA. Anuncios y avisos legales","SECCIÓN SEGUNDA. Anuncios y avisos legales","SECCIÓN SEGUNDA. Anuncios y avisos legales","SECCIÓN SEGUNDA. Anuncios y avisos legales","SECCIÓN SEGUNDA. Anuncios y avisos legales","SECCIÓN SEGUNDA. Anuncios y avisos legales"],["Actos inscritos","Actos inscritos","Actos inscritos","Actos inscritos","Actos inscritos","Actos inscritos","Actos inscritos","Actos inscritos","Actos inscritos","Actos inscritos","Actos inscritos","Actos inscritos","Actos inscritos","Actos inscritos","Actos inscritos","Actos inscritos","Actos inscritos","Actos inscritos","Actos inscritos","Actos inscritos","Actos inscritos","Actos inscritos","Actos inscritos","Actos inscritos","Actos inscritos","Actos inscritos","Actos inscritos","Actos inscritos","Actos inscritos","Actos inscritos","Actos inscritos","Actos inscritos","Actos inscritos","Actos inscritos","Actos inscritos","Actos inscritos","Actos inscritos","Otros actos publicados en el Registro Mercantil","Otros actos publicados en el Registro Mercantil","CONVOCATORIAS DE JUNTAS","CONVOCATORIAS DE JUNTAS","CONVOCATORIAS DE JUNTAS","CONVOCATORIAS DE JUNTAS","CONVOCATORIAS DE JUNTAS","CONVOCATORIAS DE JUNTAS","CONVOCATORIAS DE JUNTAS","CONVOCATORIAS DE JUNTAS","CONVOCATORIAS DE JUNTAS","CONVOCATORIAS DE JUNTAS","CONVOCATORIAS DE JUNTAS","CONVOCATORIAS DE JUNTAS","CONVOCATORIAS DE JUNTAS","CONVOCATORIAS DE JUNTAS","CONVOCATORIAS DE JUNTAS","CONVOCATORIAS DE JUNTAS","CONVOCATORIAS DE JUNTAS","CONVOCATORIAS DE JUNTAS","CONVOCATORIAS DE JUNTAS","CONVOCATORIAS DE JUNTAS","CONVOCATORIAS DE JUNTAS","CONVOCATORIAS DE JUNTAS","CONVOCATORIAS DE JUNTAS","CONVOCATORIAS DE JUNTAS","CONVOCATORIAS DE JUNTAS","CONVOCATORIAS DE JUNTAS","CONVOCATORIAS DE JUNTAS","CONVOCATORIAS DE JUNTAS","CONVOCATORIAS DE JUNTAS","CONVOCATORIAS DE JUNTAS","CONVOCATORIAS DE JUNTAS","CONVOCATORIAS DE JUNTAS","CONVOCATORIAS DE JUNTAS","CONVOCATORIAS DE JUNTAS","CONVOCATORIAS DE JUNTAS","CONVOCATORIAS DE JUNTAS","CONVOCATORIAS DE JUNTAS","CONVOCATORIAS DE JUNTAS","CONVOCATORIAS DE JUNTAS","CONVOCATORIAS DE JUNTAS","CONVOCATORIAS DE JUNTAS","CONVOCATORIAS DE JUNTAS","CONVOCATORIAS DE JUNTAS","CONVOCATORIAS DE JUNTAS","CONVOCATORIAS DE JUNTAS","CONVOCATORIAS DE JUNTAS","CONVOCATORIAS DE JUNTAS","CONVOCATORIAS DE JUNTAS","CONVOCATORIAS DE JUNTAS","CONVOCATORIAS DE JUNTAS","CONVOCATORIAS DE JUNTAS","CONVOCATORIAS DE JUNTAS","CONVOCATORIAS DE JUNTAS","CONVOCATORIAS DE JUNTAS","CONVOCATORIAS DE JUNTAS","CONVOCATORIAS DE JUNTAS","CONVOCATORIAS DE JUNTAS","CONVOCATORIAS DE JUNTAS","CONVOCATORIAS DE JUNTAS","CONVOCATORIAS DE JUNTAS","CONVOCATORIAS DE JUNTAS","CONVOCATORIAS DE JUNTAS","CONVOCATORIAS DE JUNTAS","CONVOCATORIAS DE JUNTAS","FUSIONES Y ABSORCIONES DE EMPRESAS","FUSIONES Y ABSORCIONES DE EMPRESAS","FUSIONES Y ABSORCIONES DE EMPRESAS","FUSIONES Y ABSORCIONES DE EMPRESAS","FUSIONES Y ABSORCIONES DE EMPRESAS","FUSIONES Y ABSORCIONES DE EMPRESAS","FUSIONES Y ABSORCIONES DE EMPRESAS","FUSIONES Y ABSORCIONES DE EMPRESAS","FUSIONES Y ABSORCIONES DE EMPRESAS","FUSIONES Y ABSORCIONES DE EMPRESAS","ESCISIÓN DE EMPRESAS","REDUCCIÓN DE CAPITAL"],[null,null,null,null,null,null,null,null,null,null,null,null,null,null,null,null,null,null,null,null,null,null,null,null,null,null,null,null,null,null,null,null,null,null,null,null,null,null,null,null,null,null,null,null,null,null,null,null,null,null,null,null,null,null,null,null,null,null,null,null,null,null,null,null,null,null,null,null,null,null,null,null,null,null,null,null,null,null,null,null,null,null,null,null,null,null,null,null,null,null,null,null,null,null,null,null,null,null,null,null,null,null,null,null,null,null,null,null,null,null,null,null,null,null,null],["BORME-A-2024-97-02","BORME-A-2024-97-03","BORME-A-2024-97-04","BORME-A-2024-97-06","BORME-A-2024-97-07","BORME-A-2024-97-08","BORME-A-2024-97-09","BORME-A-2024-97-11","BORME-A-2024-97-12","BORME-A-2024-97-13","BORME-A-2024-97-15","BORME-A-2024-97-16","BORME-A-2024-97-17","BORME-A-2024-97-18","BORME-A-2024-97-21","BORME-A-2024-97-22","BORME-A-2024-97-23","BORME-A-2024-97-24","BORME-A-2024-97-25","BORME-A-2024-97-27","BORME-A-2024-97-28","BORME-A-2024-97-29","BORME-A-2024-97-30","BORME-A-2024-97-31","BORME-A-2024-97-33","BORME-A-2024-97-35","BORME-A-2024-97-36","BORME-A-2024-97-40","BORME-A-2024-97-41","BORME-A-2024-97-43","BORME-A-2024-97-45","BORME-A-2024-97-46","BORME-A-2024-97-47","BORME-A-2024-97-49","BORME-A-2024-97-50","BORME-A-2024-97-51","BORME-A-2024-97-99","BORME-B-2024-97-30","BORME-B-2024-97-51","BORME-C-2024-2721","BORME-C-2024-2722","BORME-C-2024-2723","BORME-C-2024-2724","BORME-C-2024-2725","BORME-C-2024-2726","BORME-C-2024-2727","BORME-C-2024-2728","BORME-C-2024-2729","BORME-C-2024-2730","BORME-C-2024-2731","BORME-C-2024-2732","BORME-C-2024-2733","BORME-C-2024-2734","BORME-C-2024-2735","BORME-C-2024-2736","BORME-C-2024-2737","BORME-C-2024-2738","BORME-C-2024-2739","BORME-C-2024-2740","BORME-C-2024-2741","BORME-C-2024-2742","BORME-C-2024-2743","BORME-C-2024-2744","BORME-C-2024-2745","BORME-C-2024-2746","BORME-C-2024-2747","BORME-C-2024-2748","BORME-C-2024-2749","BORME-C-2024-2750","BORME-C-2024-2751","BORME-C-2024-2752","BORME-C-2024-2753","BORME-C-2024-2754","BORME-C-2024-2755","BORME-C-2024-2756","BORME-C-2024-2757","BORME-C-2024-2758","BORME-C-2024-2759","BORME-C-2024-2760","BORME-C-2024-2761","BORME-C-2024-2762","BORME-C-2024-2763","BORME-C-2024-2764","BORME-C-2024-2765","BORME-C-2024-2766","BORME-C-2024-2767","BORME-C-2024-2768","BORME-C-2024-2769","BORME-C-2024-2770","BORME-C-2024-2771","BORME-C-2024-2772","BORME-C-2024-2773","BORME-C-2024-2774","BORME-C-2024-2775","BORME-C-2024-2776","BORME-C-2024-2777","BORME-C-2024-2778","BORME-C-2024-2779","BORME-C-2024-2780","BORME-C-2024-2781","BORME-C-2024-2782","BORME-C-2024-2783","BORME-C-2024-2784","BORME-C-2024-2785","BORME-C-2024-2786","BORME-C-2024-2787","BORME-C-2024-2788","BORME-C-2024-2789","BORME-C-2024-2790","BORME-C-2024-2791","BORME-C-2024-2792","BORME-C-2024-2793","BORME-C-2024-2794","BORME-C-2024-2795","BORME-C-2024-2796"]],"container":"<table class=\"display\">\n  <thead>\n    <tr>\n      <th> <\/th>\n      <th>Sección<\/th>\n      <th>Emisor<\/th>\n      <th>Texto<\/th>\n      <th>Link<\/th>\n    <\/tr>\n  <\/thead>\n<\/table>","options":{"pageLength":10,"autoWidth":true,"columnDefs":[{"orderable":false,"targets":0},{"name":" ","targets":0},{"name":"Sección","targets":1},{"name":"Emisor","targets":2},{"name":"Texto","targets":3},{"name":"Link","targets":4}],"order":[],"orderClasses":false,"orderCellsTop":true}},"evals":[],"jsHooks":[]}</script>
 </div>
 
 
